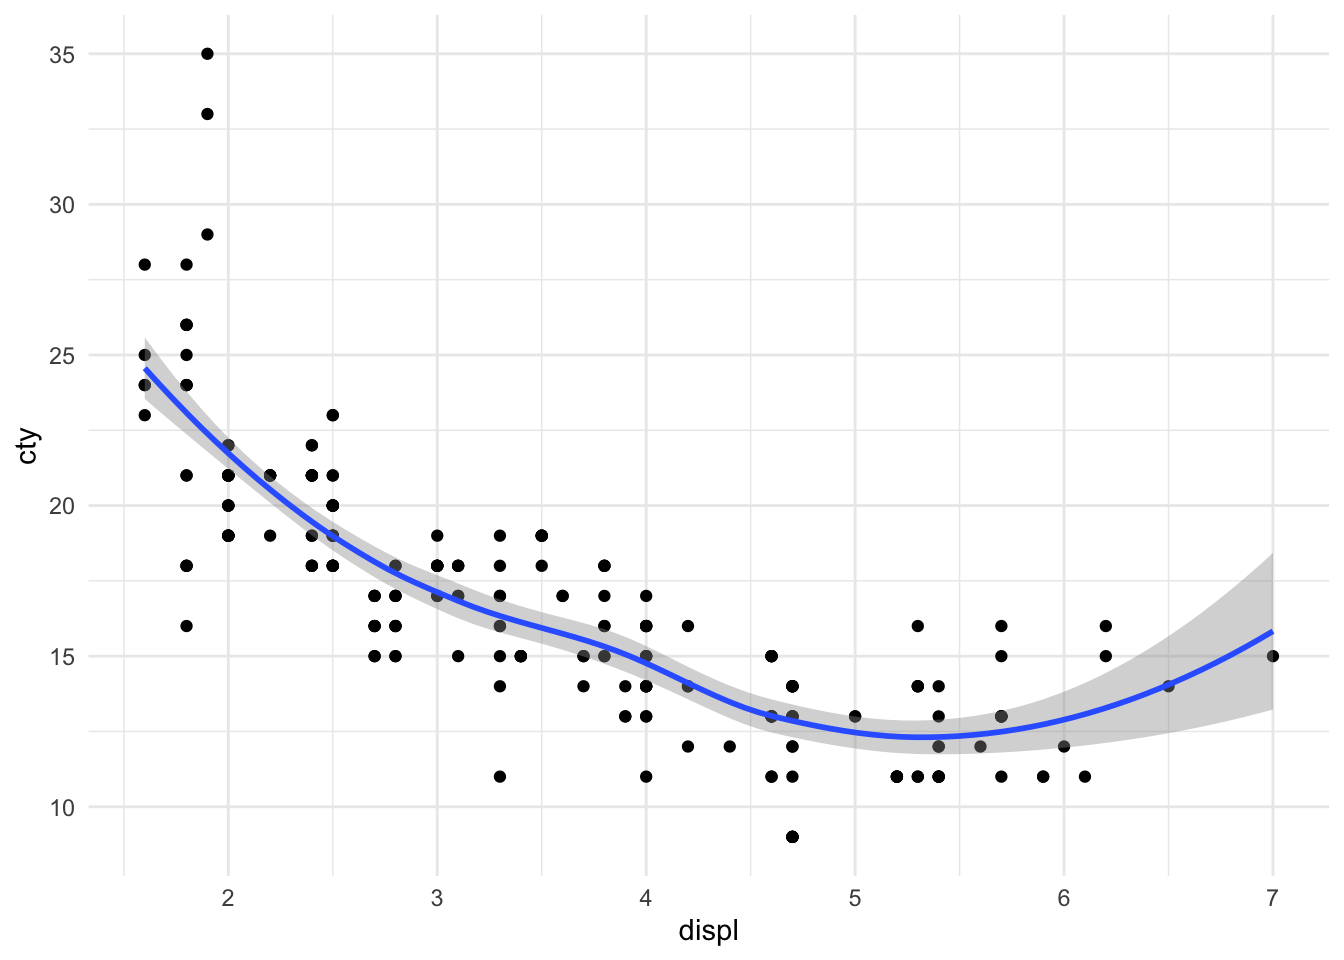
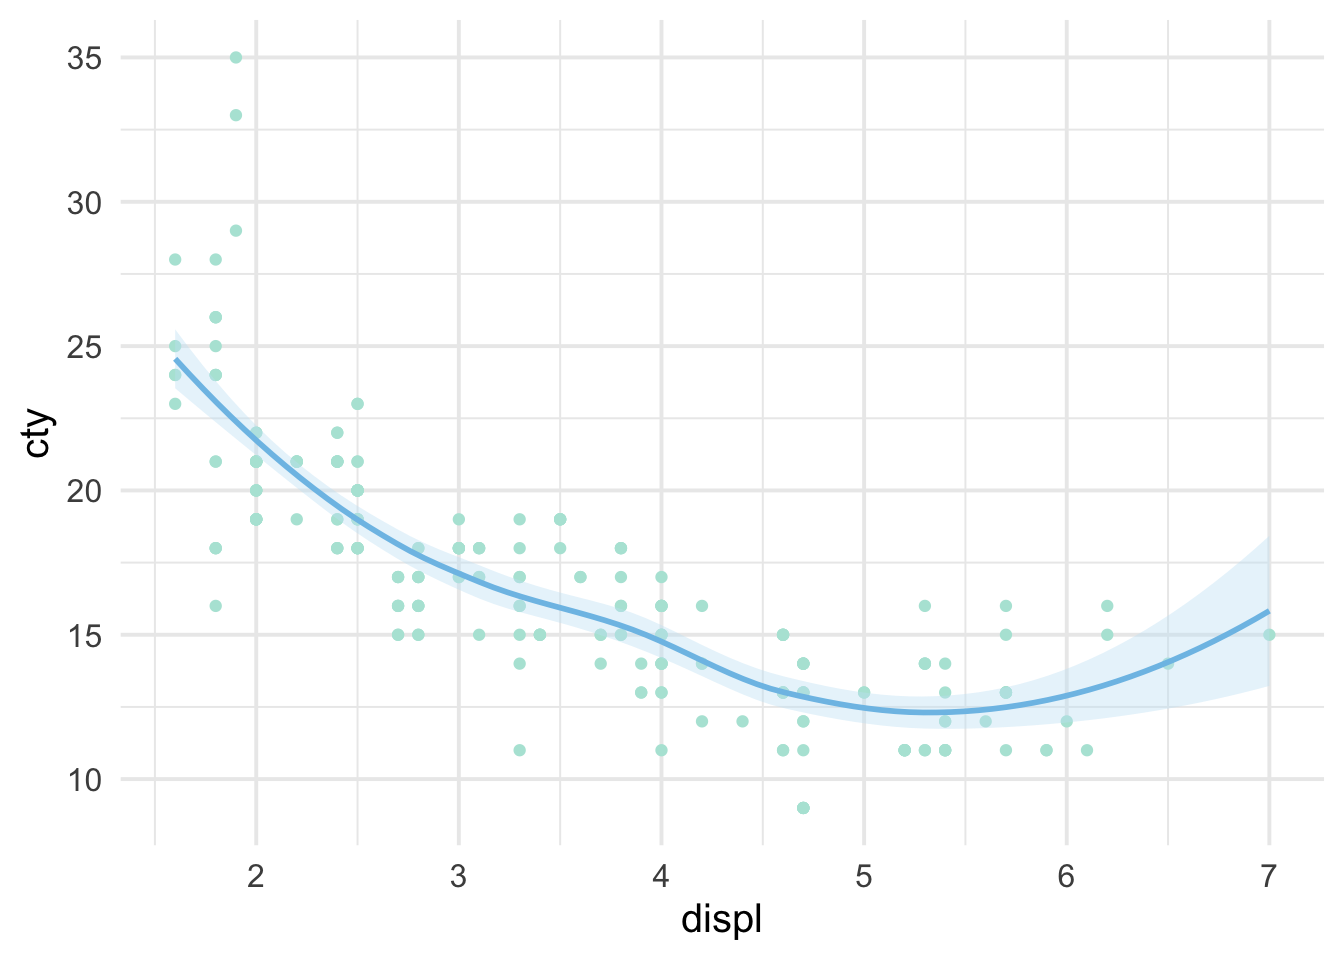
should fix build error - minor style changes

diff --git a/_book/welcome.html b/_book/welcome.html
@@ -156,14 +156,16 @@ code span.wa { color: #60a0b0; font-weight: bold; font-style: italic; } /* Warni
 <h1><span class="header-section-number">2</span> Welcome</h1>
 <p>It’s a vast world out there. We’re going to cover a lot of ground. Don’t be scared. It’s going to be <strong>so. much. FUN!</strong></p>
 <p>I’m just playing right now and specifically thinking about code styling. So here’s a code chunk for producing a very basic plot.</p>
-<div class="sourceCode" id="cb1"><pre class="sourceCode r"><code class="sourceCode r"><span id="cb1-1"><a href="welcome.html#cb1-1"></a><span class="co"># load the library</span></span>
-<span id="cb1-2"><a href="welcome.html#cb1-2"></a><span class="kw">library</span>(tidyverse)</span>
-<span id="cb1-3"><a href="welcome.html#cb1-3"></a></span>
-<span id="cb1-4"><a href="welcome.html#cb1-4"></a><span class="co"># create a plot</span></span>
-<span id="cb1-5"><a href="welcome.html#cb1-5"></a><span class="kw">ggplot</span>(mpg, <span class="kw">aes</span>(displ, cty)) <span class="op">+</span></span>
-<span id="cb1-6"><a href="welcome.html#cb1-6"></a><span class="st">  </span><span class="kw">geom_point</span>() <span class="op">+</span></span>
-<span id="cb1-7"><a href="welcome.html#cb1-7"></a><span class="st">  </span><span class="kw">geom_smooth</span>() <span class="op">+</span></span>
-<span id="cb1-8"><a href="welcome.html#cb1-8"></a><span class="st">  </span><span class="kw">theme_minimal</span>()</span></code></pre></div>
+<div class="sourceCode" id="cb1"><pre class="sourceCode r"><code class="sourceCode r"><span id="cb1-1"><a href="welcome.html#cb1-1"></a><span class="co"># load the libraries</span></span>
+<span id="cb1-2"><a href="welcome.html#cb1-2"></a><span class="kw">library</span>(ggplot2)</span>
+<span id="cb1-3"><a href="welcome.html#cb1-3"></a><span class="kw">library</span>(dplyr)</span>
+<span id="cb1-4"><a href="welcome.html#cb1-4"></a></span>
+<span id="cb1-5"><a href="welcome.html#cb1-5"></a><span class="co"># create a plot</span></span>
+<span id="cb1-6"><a href="welcome.html#cb1-6"></a><span class="kw">ggplot</span>(mpg, <span class="kw">aes</span>(displ, cty)) <span class="op">+</span></span>
+<span id="cb1-7"><a href="welcome.html#cb1-7"></a><span class="st">  </span><span class="kw">geom_point</span>(<span class="dt">color =</span> <span class="st">&quot;#B3E5D9&quot;</span>) <span class="op">+</span></span>
+<span id="cb1-8"><a href="welcome.html#cb1-8"></a><span class="st">  </span><span class="kw">geom_smooth</span>(<span class="dt">color =</span> <span class="st">&quot;#7EC1E7&quot;</span>,</span>
+<span id="cb1-9"><a href="welcome.html#cb1-9"></a>              <span class="dt">fill =</span> <span class="st">&quot;#C7E4F5&quot;</span>) <span class="op">+</span></span>
+<span id="cb1-10"><a href="welcome.html#cb1-10"></a><span class="st">  </span><span class="kw">theme_minimal</span>(<span class="dv">15</span>)</span></code></pre></div>
 <p><img src="_main_files/figure-html/unnamed-chunk-2-1.png" width="672" /></p>
 <p>We could of course create some summary data too.</p>
 <div class="sourceCode" id="cb2"><pre class="sourceCode r"><code class="sourceCode r"><span id="cb2-1"><a href="welcome.html#cb2-1"></a><span class="co"># create some summary data</span></span>

diff --git a/_book/custom.css b/_book/custom.css
@@ -103,8 +103,8 @@
 
 /*Code blocks*/
 .book .book-body .page-wrapper .page-inner section.normal pre {
-	border-top:4px solid var(--highlight-darker-blue);
-	border-bottom:4px solid var(--highlight-darker-blue);
+	border-top:4px solid var(--highlight-seafoam);
+	border-bottom:4px solid var(--highlight-seafoam);
 	background-color: #FDFDFD;
 	color: #415A6E;
 }

diff --git a/custom.css b/custom.css
@@ -103,8 +103,8 @@
 
 /*Code blocks*/
 .book .book-body .page-wrapper .page-inner section.normal pre {
-	border-top:4px solid var(--highlight-darker-blue);
-	border-bottom:4px solid var(--highlight-darker-blue);
+	border-top:4px solid var(--highlight-seafoam);
+	border-bottom:4px solid var(--highlight-seafoam);
 	background-color: #FDFDFD;
 	color: #415A6E;
 }
